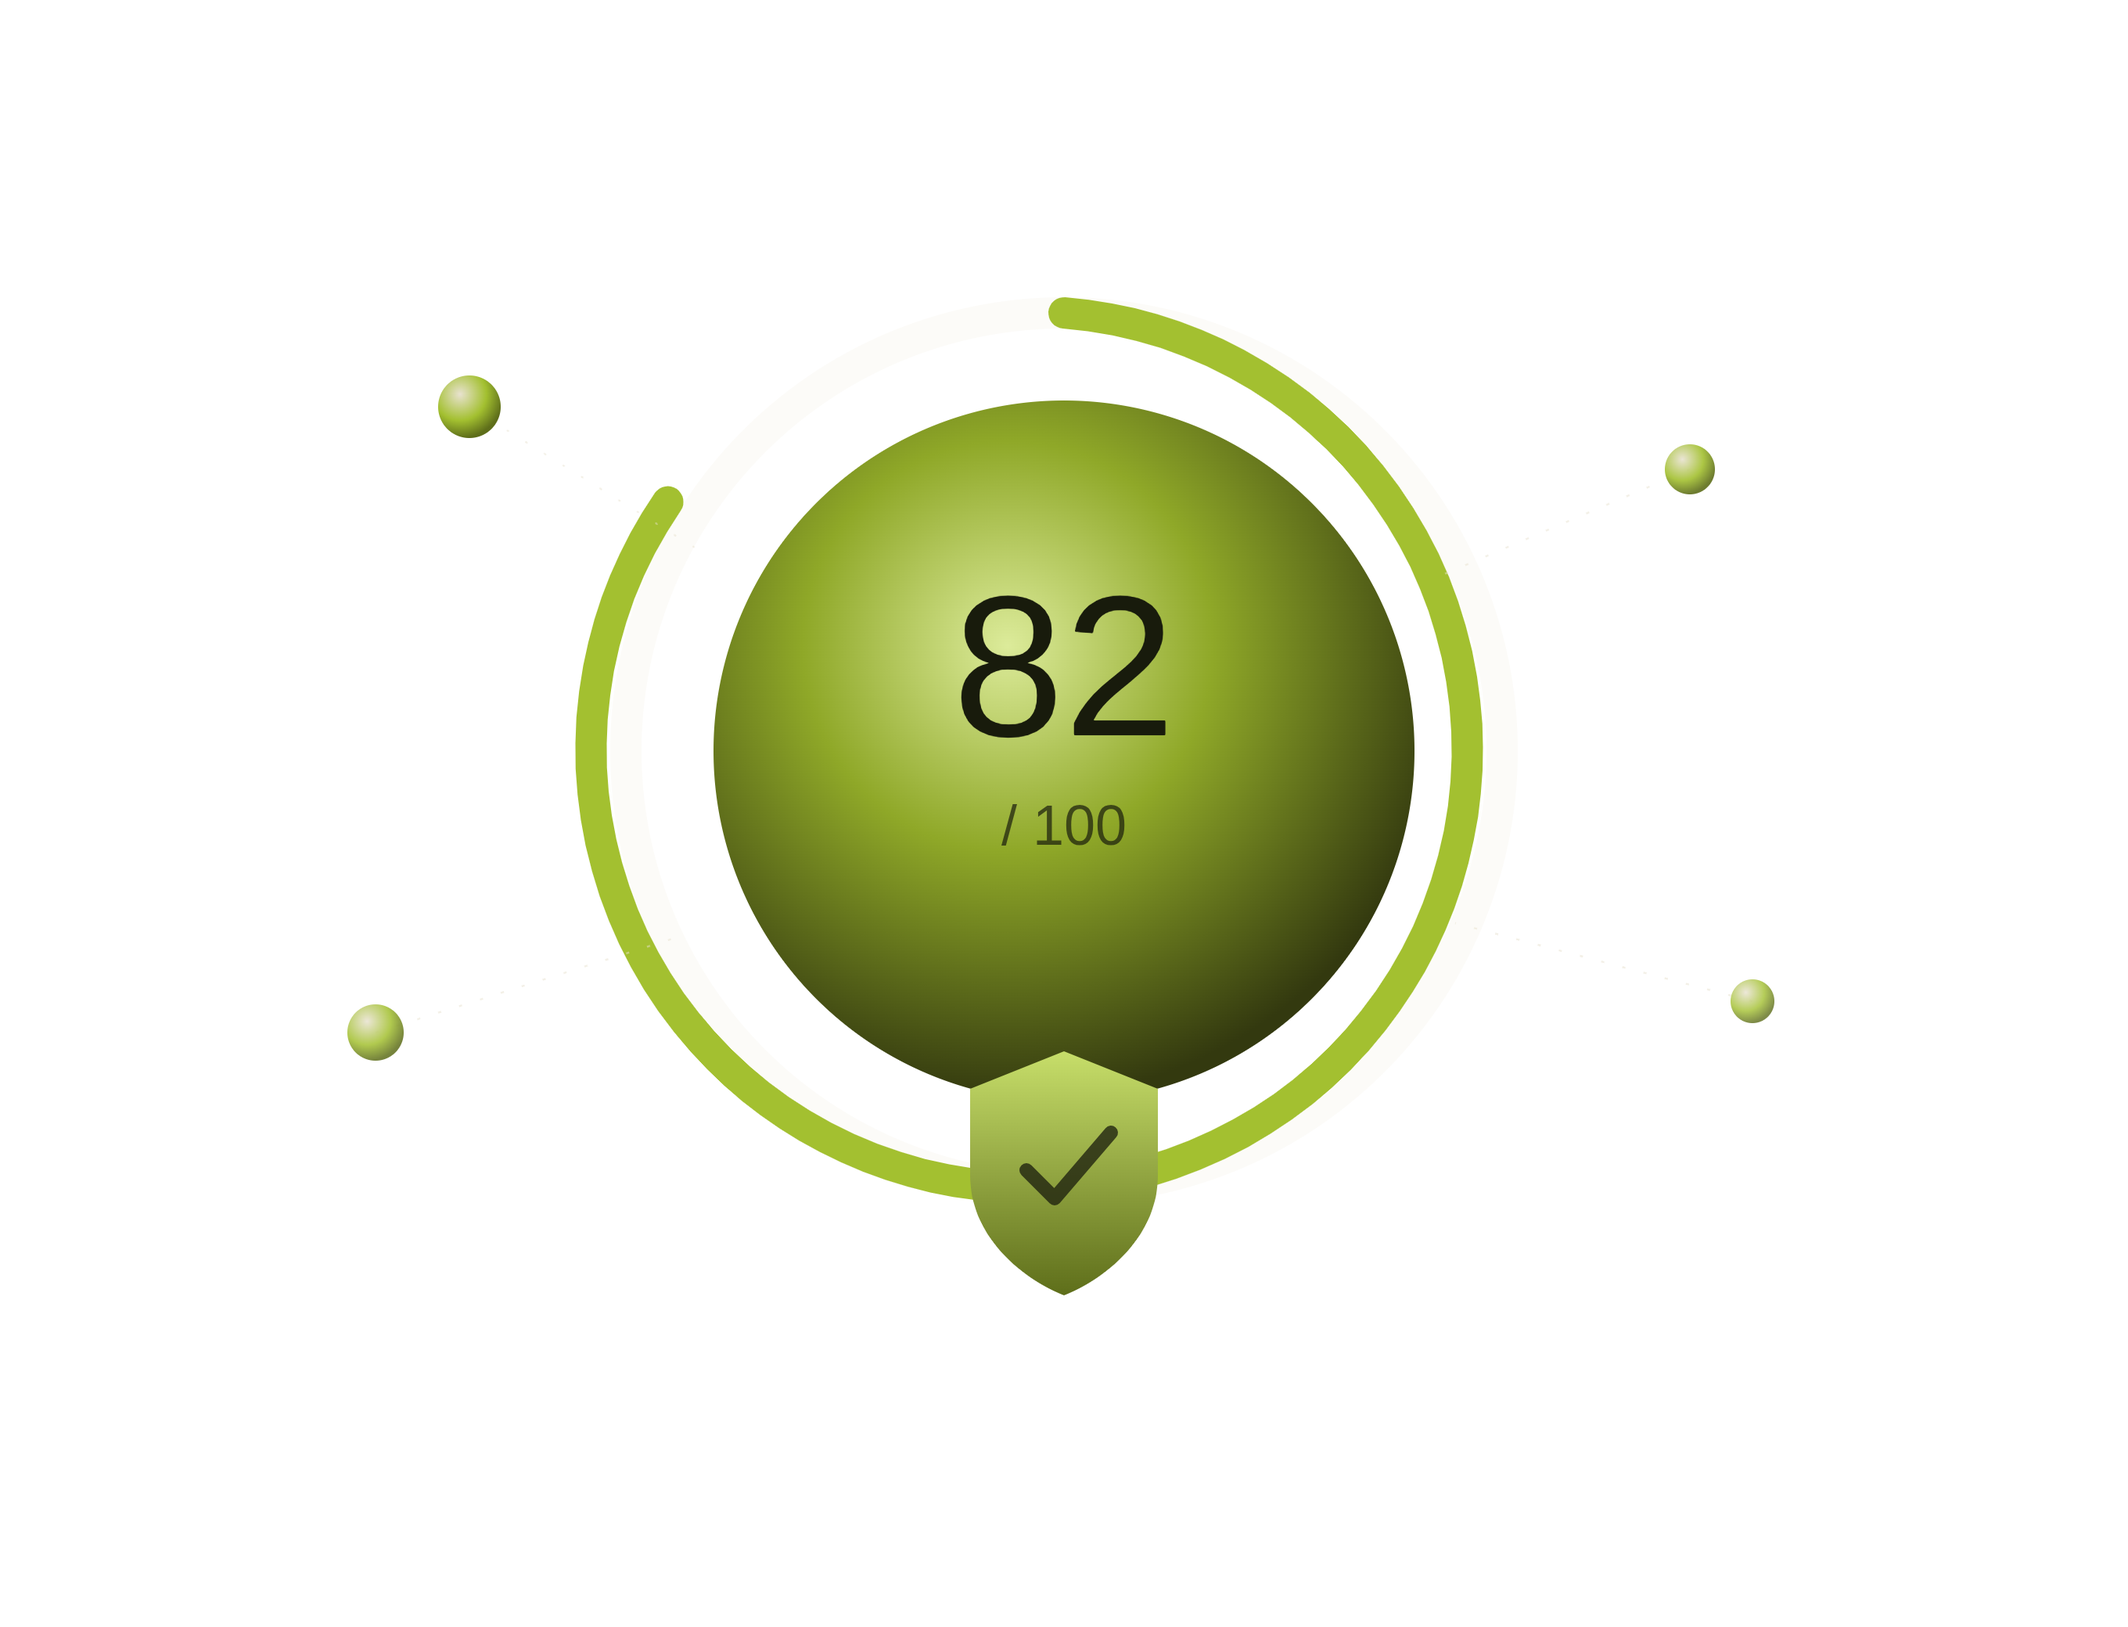
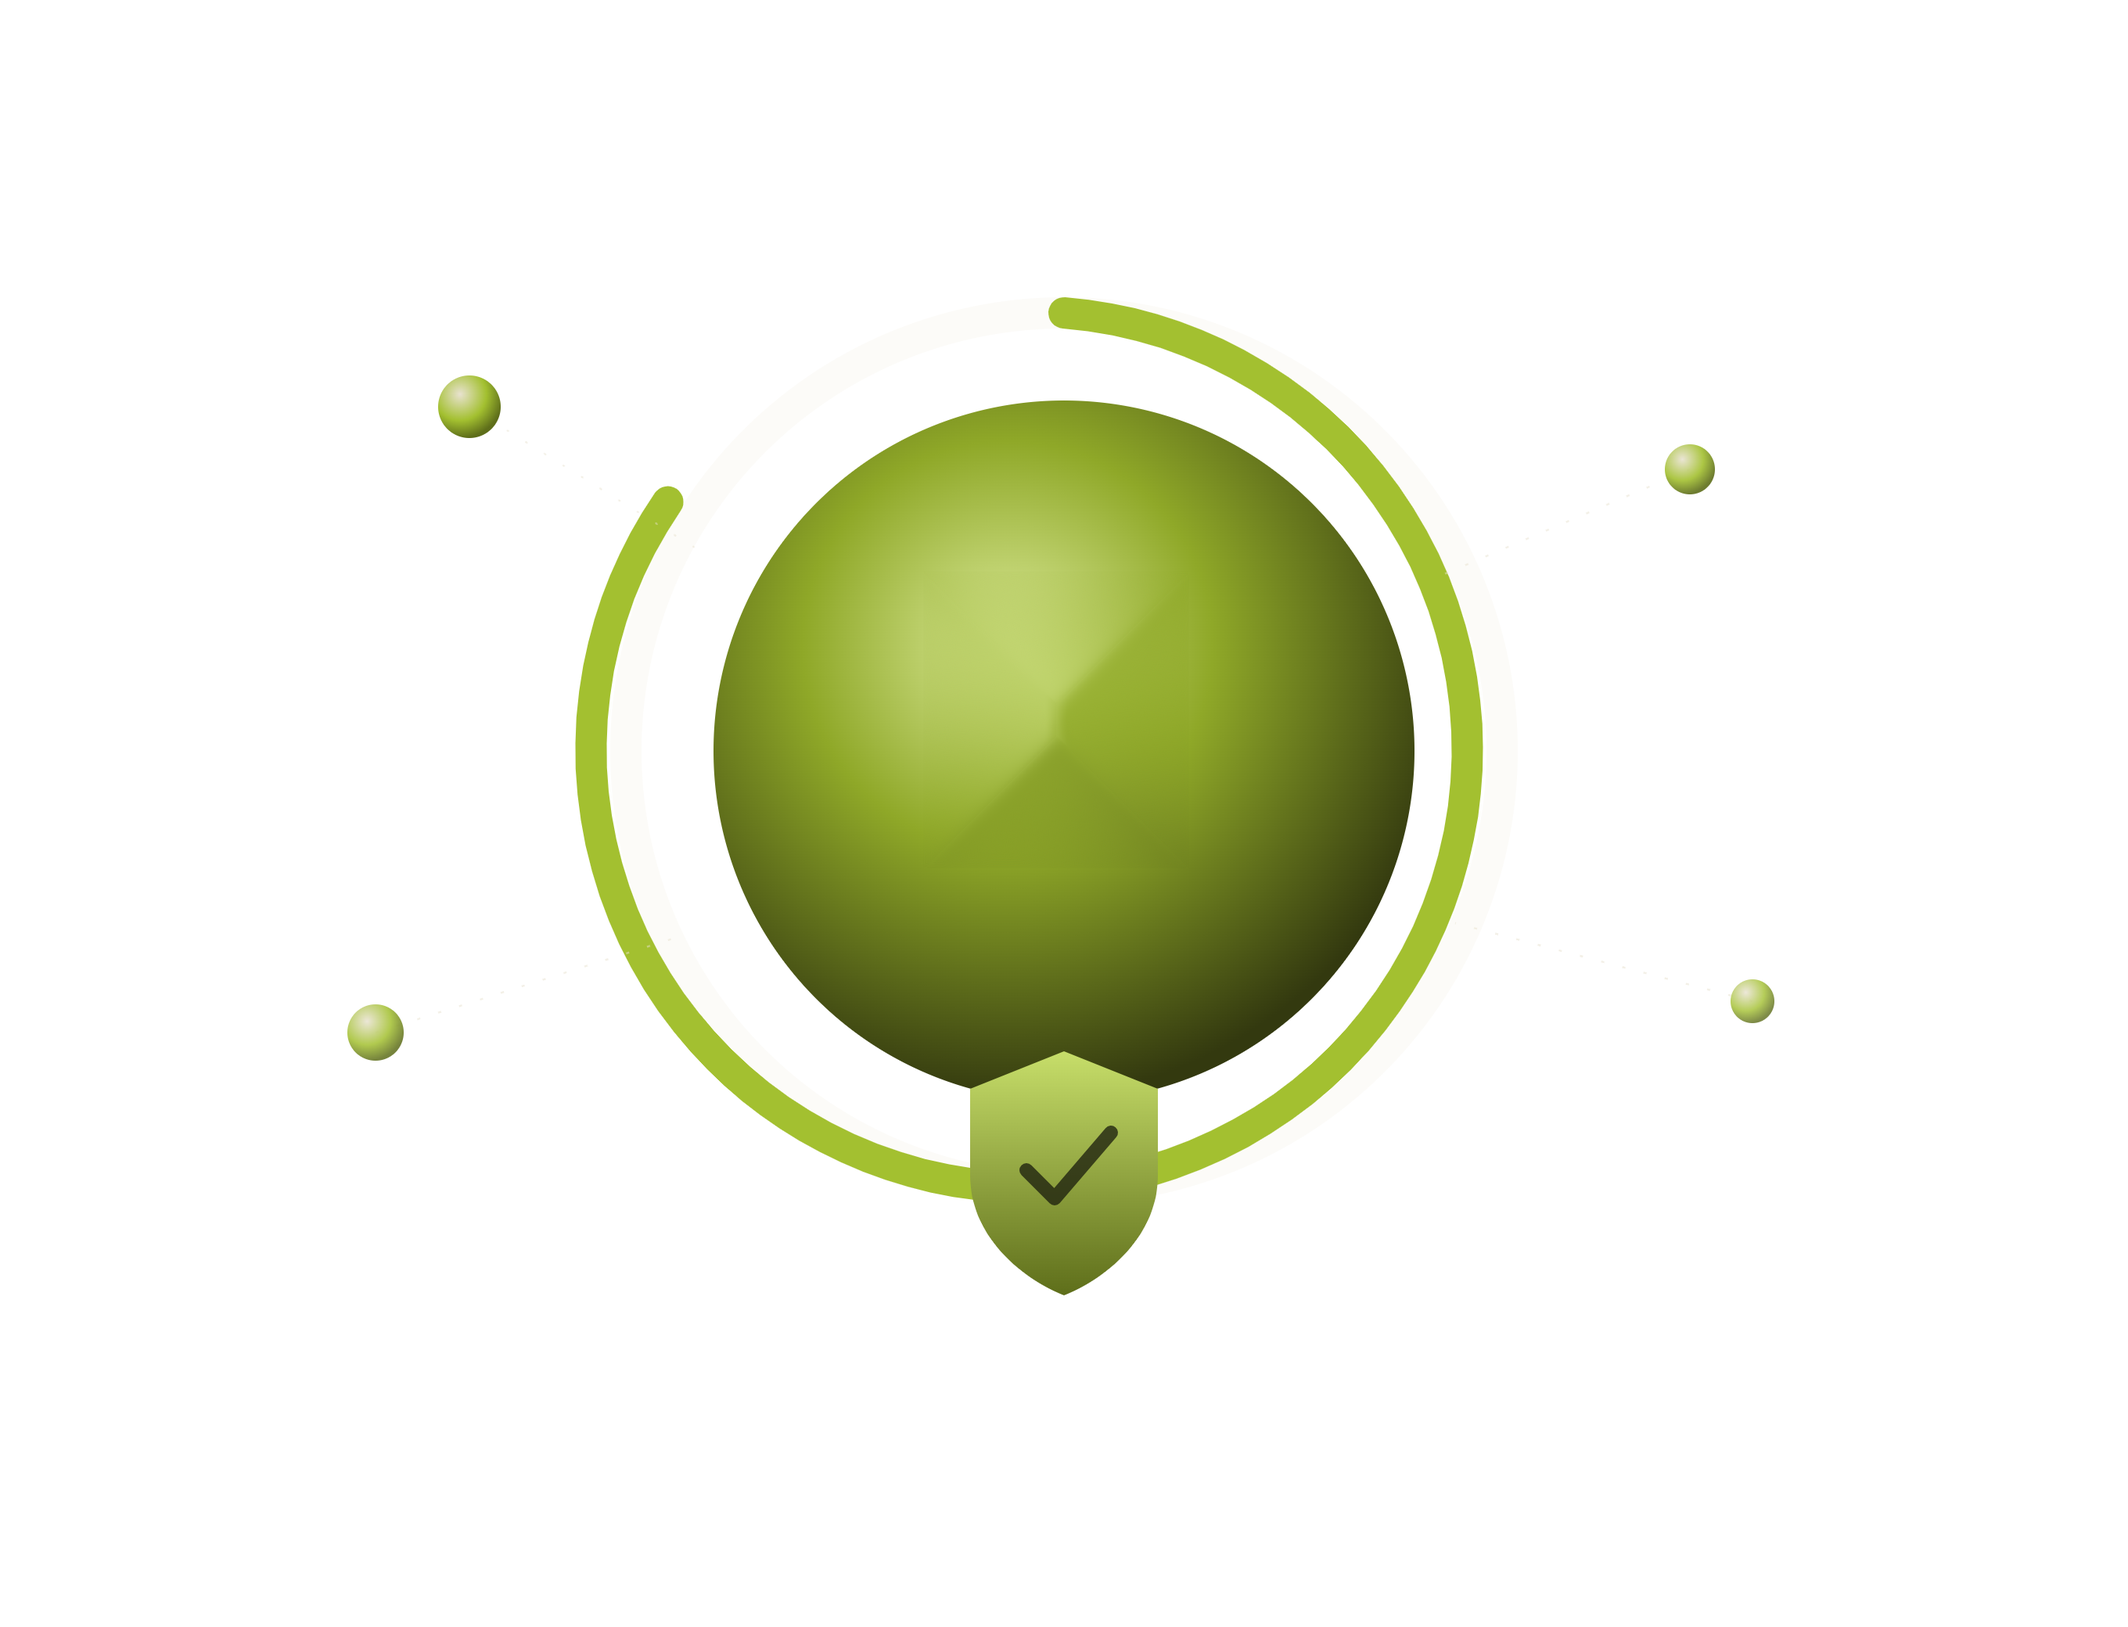
fix(dashboard): score orb, on-chain RPC, Recent Flow cap, feedback hang
BUG-01 (HIGH) — Score orb center number stuck at 0 after re-analysis
frontend/app/components/AnimatedScore.tsx
- Replace the framer-motion useSpring().set() counter with a self-contained
  requestAnimationFrame count-up that always converges on the exact target
  value, eliminating the race that left the center number stuck at 0 while
  the SVG ring already reflected the real score.

BUG-02 (CRITICAL) — Save on-chain DNS failure
backend/src/config/stellar.config.ts
- Fix Soroban RPC hosts: rpc.testnet.stellar.org -> soroban-testnet.stellar.org,
  rpc.mainnet.stellar.org -> soroban-mainnet.stellar.org. The old hosts don't
  resolve via DNS, so every on-chain save failed outright.
backend/src/services/contract.service.ts
- Add a 30s RPC timeout and translate timeout/429/5xx/DNS failures into
  clear, specific error messages instead of a raw stack trace.

BUG-03 (MEDIUM) — Recent Flow shows only ~14 transactions
frontend/app/dashboard/page.tsx
- Raise the Recent Flow sample from 14 to 100 transactions and add a
  "Showing X of Y tx" line so it can never silently contradict the
  full-history stats shown elsewhere on the dashboard.

BUG-04 (LOW) — Decorative orb PNG has hardcoded "82"
frontend/public/3d-imgs-assest/fluxid_trust_score_orb.png
- Inpaint the baked-in "82 / 100" text out of the decorative orb asset,
  keeping the ring/dots/shield intact. The orb no longer displays any
  number.

BUG-05 (LOW) — Network toggle keeps stale analysis visible
[…]

Changed region(s): [[0.4375, 0.3438, 0.5625, 0.5312]]

diff --git a/frontend/app/dashboard/context/AnalysisContext.tsx b/frontend/app/dashboard/context/AnalysisContext.tsx
@@ -20,11 +20,19 @@ import {
 interface AnalysisState {
   analyzedAddress: string | null;
   analysis: WalletAnalysis | null;
+  // Network this analysis (or in-flight request) belongs to. Compared against the
+  // currently selected network so a result never survives a network switch, no matter
+  // which UI control (e.g. the Header's own network toggle) triggered that switch.
+  resultNetwork: StellarNetwork | null;
   isAnalyzing: boolean;
   error: string | null;
 }
 
-interface AnalysisContextValue extends AnalysisState {
+interface AnalysisContextValue {
+  analyzedAddress: string | null;
+  analysis: WalletAnalysis | null;
+  isAnalyzing: boolean;
+  error: string | null;
   network: StellarNetwork;
   analyze: (address: string, network?: StellarNetwork) => Promise<boolean>;
   setNetwork: (network: StellarNetwork) => void;
@@ -39,22 +47,42 @@ export function AnalysisProvider({ children }: { children: ReactNode }) {
   const [state, setState] = useState<AnalysisState>({
     analyzedAddress: null,
     analysis: null,
+    resultNetwork: null,
     isAnalyzing: false,
     error: null,
   });
 
-  const analysis = state.isAnalyzing ? null : (state.analysis ?? stored?.analysis ?? null);
-  const analyzedAddress = state.analyzedAddress ?? stored?.address ?? null;
+  // In-memory and persisted results are only valid for the network they were computed
+  // on — otherwise they're a leftover from before the last network switch and must not
+  // be shown as if they were fresh, regardless of which control changed the network
+  // (the Header's own toggle writes straight to storage, bypassing this provider).
+  const sessionIsFresh = state.resultNetwork === network;
+  const storedForNetwork = stored?.network === network ? stored : null;
+
+  const analysis = state.isAnalyzing
+    ? null
+    : (sessionIsFresh ? state.analysis : null) ?? storedForNetwork?.analysis ?? null;
+  const analyzedAddress =
+    (sessionIsFresh || state.isAnalyzing ? state.analyzedAddress : null) ??
+    storedForNetwork?.address ??
+    null;
 
   const analyze = useCallback(async (address: string, networkOverride?: StellarNetwork) => {
     const selected = networkOverride ?? network;
-    setState((prev) => ({ ...prev, isAnalyzing: true, error: null, analysis: null, analyzedAddress: address }));
+    setState({
+      analyzedAddress: address,
+      analysis: null,
+      resultNetwork: selected,
+      isAnalyzing: true,
+      error: null,
+    });
     clearStoredResults();
     try {
       const result = await analyzeWallet(address, selected);
       setState({
         analyzedAddress: address,
         analysis: result,
+        resultNetwork: selected,
         isAnalyzing: false,
         error: null,
       });
@@ -75,6 +103,7 @@ export function AnalysisProvider({ children }: { children: ReactNode }) {
     setState({
       analyzedAddress: null,
       analysis: null,
+      resultNetwork: null,
       isAnalyzing: false,
       error: null,
     });
@@ -83,7 +112,16 @@ export function AnalysisProvider({ children }: { children: ReactNode }) {
 
   return (
     <AnalysisContext.Provider
-      value={{ ...state, analysis, analyzedAddress, network, analyze, setNetwork, clear }}
+      value={{
+        analysis,
+        analyzedAddress,
+        isAnalyzing: state.isAnalyzing,
+        error: state.error,
+        network,
+        analyze,
+        setNetwork,
+        clear,
+      }}
     >
       {children}
     </AnalysisContext.Provider>

diff --git a/backend/src/services/contract.service.ts b/backend/src/services/contract.service.ts
@@ -94,8 +94,33 @@ export class ContractService {
     return Boolean(this.contractId);
   }
 
+  private static readonly RPC_TIMEOUT_MS = 30_000;
+
   private getServer(): rpc.Server {
-    return new rpc.Server(this.rpcUrl, { allowHttp: this.rpcUrl.startsWith('http://') });
+    return new rpc.Server(this.rpcUrl, {
+      allowHttp: this.rpcUrl.startsWith('http://'),
+      timeout: ContractService.RPC_TIMEOUT_MS,
+    });
+  }
+
+  private describeRpcError(error: unknown): string {
+    const err = error as { code?: string; message?: string; response?: { status?: number } };
+    const status = err.response?.status;
+    const message = err.message ?? String(error);
+
+    if (err.code === 'ECONNABORTED' || /timeout/i.test(message)) {
+      return `RPC request to ${this.rpcUrl} timed out`;
+    }
+    if (status === 429) {
+      return `RPC provider ${this.rpcUrl} rate-limited the request (429)`;
+    }
+    if (status && status >= 500) {
+      return `RPC provider ${this.rpcUrl} returned a server error (${status})`;
+    }
+    if (err.code === 'ENOTFOUND' || err.code === 'EAI_AGAIN') {
+      return `RPC host ${this.rpcUrl} could not be resolved (DNS failure)`;
+    }
+    return message;
   }
 
   private async getSimulationSource(server: rpc.Server, fallbackPublicKey?: string) {
@@ -291,7 +316,7 @@ export class ContractService {
     const hashScVal = xdr.ScVal.scvBytes(hashBuffer);
 
     try {
-      const server = new rpc.Server(this.rpcUrl, { allowHttp: this.rpcUrl.startsWith('http://') });
+      const server = this.getServer();
       const admin = Keypair.fromSecret(this.adminSecret as string);
       const contract = new Contract(this.contractId as string);
 
@@ -343,9 +368,9 @@ export class ContractService {
       logger.warn({ wallet, status, txHash: sendResult.hash }, 'Contract sync did not confirm');
       return { success: false, txHash: sendResult.hash, error: `Final status: ${status}` };
     } catch (error) {
-      const err = error as Error;
-      logger.error({ error: err.message, wallet }, 'Contract sync threw');
-      return { success: false, error: err.message };
+      const message = this.describeRpcError(error);
+      logger.error({ error: message, wallet }, 'Contract sync threw');
+      return { success: false, error: message };
     }
   }
 }

diff --git a/frontend/app/components/AnimatedScore.tsx b/frontend/app/components/AnimatedScore.tsx
@@ -1,7 +1,6 @@
 "use client";
 
-import { useEffect, useState, CSSProperties } from "react";
-import { motion, useSpring } from "framer-motion";
+import { useEffect, useRef, useState, CSSProperties } from "react";
 
 interface AnimatedScoreProps {
   value: number;
@@ -9,21 +8,58 @@ interface AnimatedScoreProps {
   style?: CSSProperties;
 }
 
+const DURATION_MS = 800;
+
+function easeOutCubic(t: number): number {
+  return 1 - Math.pow(1 - t, 3);
+}
+
 export default function AnimatedScore({ value, className = "", style }: AnimatedScoreProps) {
   const [displayValue, setDisplayValue] = useState(0);
-  const spring = useSpring(0, { stiffness: 50, damping: 15 });
+  const displayValueRef = useRef(displayValue);
+  displayValueRef.current = displayValue;
+  const frameRef = useRef<number | null>(null);
 
   useEffect(() => {
-    const unsubscribe = spring.on("change", (v) => {
-      setDisplayValue(Math.round(v));
-    });
-    spring.set(value);
-    return unsubscribe;
-  }, [value, spring]);
+    const from = displayValueRef.current;
+    const to = value;
+
+    if (frameRef.current !== null) {
+      cancelAnimationFrame(frameRef.current);
+      frameRef.current = null;
+    }
+
+    if (from === to) {
+      return;
+    }
+
+    const start = performance.now();
+
+    const tick = (now: number) => {
+      const progress = Math.min((now - start) / DURATION_MS, 1);
+      const current = Math.round(from + (to - from) * easeOutCubic(progress));
+      setDisplayValue(current);
+
+      if (progress < 1) {
+        frameRef.current = requestAnimationFrame(tick);
+      } else {
+        frameRef.current = null;
+      }
+    };
+
+    frameRef.current = requestAnimationFrame(tick);
+
+    return () => {
+      if (frameRef.current !== null) {
+        cancelAnimationFrame(frameRef.current);
+        frameRef.current = null;
+      }
+    };
+  }, [value]);
 
   return (
-    <motion.span className={className} style={style}>
+    <span className={className} style={style}>
       {displayValue}
-    </motion.span>
+    </span>
   );
 }

diff --git a/frontend/app/dashboard/page.tsx b/frontend/app/dashboard/page.tsx
@@ -109,11 +109,16 @@ function DashboardSummary({
   // Top risk factors — lowest sub-scores (weakest signals, headline problems).
   const riskFactors = [...factors].sort((a, b) => a.value - b.value).slice(0, 2);
 
-  // Compact flow: summarize the 14 most recent transactions into a single stacked bar per direction.
-  const recent = analysis.transactions.slice(0, 14);
+  // Compact flow: summarize the most recent transactions (up to RECENT_FLOW_LIMIT) into a
+  // single stacked bar per direction. The card always states how many of the wallet's total
+  // transactions this sample covers, so it can never silently contradict the full-history stats
+  // shown elsewhere on the dashboard (Score Breakdown, Analytics).
+  const RECENT_FLOW_LIMIT = 100;
+  const recent = analysis.transactions.slice(0, RECENT_FLOW_LIMIT);
   const recentIn = recent.filter((t) => t.type === "inflow").length;
   const recentOut = recent.filter((t) => t.type === "outflow").length;
   const recentTotal = Math.max(recentIn + recentOut, 1);
+  const totalTxCount = analysis.transactions.length;
 
   return (
     <motion.div initial="hidden" animate="show" className="grid grid-cols-1 md:grid-cols-3 gap-4 sm:gap-6">
@@ -209,12 +214,15 @@ function DashboardSummary({
             />
           </div>
           <p style={{ color: "var(--foreground-dim)", fontSize: 11 }} className="pt-2">
-            Last {recent.length} tx ·{" "}
+            {recent.length < totalTxCount
+              ? `Showing ${recent.length} of ${totalTxCount} tx`
+              : `${recent.length} tx`}{" "}
+            ·{" "}
             <Link
-              href="/dashboard/analytics"
+              href="/dashboard/transactions"
               className="text-[var(--primary)] hover:underline font-bold"
             >
-              see Analytics for full charts
+              see all transactions
             </Link>
           </p>
 

diff --git a/frontend/lib/metricsApi.ts b/frontend/lib/metricsApi.ts
@@ -60,6 +60,8 @@ export async function logEvent(
   }
 }
 
+const FEEDBACK_TIMEOUT_MS = 10_000;
+
 export async function submitFeedback(
   rating: number,
   message: string,
@@ -67,16 +69,23 @@ export async function submitFeedback(
 ): Promise<boolean> {
   const base = baseUrl();
   if (!base) return false;
+  const controller = new AbortController();
+  const timeoutId = setTimeout(() => controller.abort(), FEEDBACK_TIMEOUT_MS);
   try {
     const res = await fetch(`${base}feedback`, {
       method: "POST",
       headers: { "Content-Type": "application/json" },
       body: JSON.stringify({ rating, message, wallet: wallet ?? null }),
+      signal: controller.signal,
     });
     const body = (await res.json()) as { success?: boolean };
     return body.success === true;
   } catch {
+    // Covers network errors and the 10s timeout abort alike — the caller
+    // treats both as "failed to send" and lets the user retry.
     return false;
+  } finally {
+    clearTimeout(timeoutId);
   }
 }
 

diff --git a/backend/src/config/stellar.config.ts b/backend/src/config/stellar.config.ts
@@ -12,13 +12,13 @@ export interface StellarConfig {
 export const STELLAR_CONFIGS: Record<NetworkType, StellarConfig> = {
   mainnet: {
     horizonUrl: 'https://horizon.stellar.org',
-    rpcUrl: 'https://rpc.mainnet.stellar.org',
+    rpcUrl: 'https://soroban-mainnet.stellar.org',
     networkPassphrase: Networks.PUBLIC,
     contractId: process.env.MAINNET_CONTRACT_ID,
   },
   testnet: {
     horizonUrl: 'https://horizon-testnet.stellar.org',
-    rpcUrl: 'https://rpc.testnet.stellar.org',
+    rpcUrl: 'https://soroban-testnet.stellar.org',
     networkPassphrase: Networks.TESTNET,
     contractId: process.env.TESTNET_CONTRACT_ID,
   },

diff --git a/frontend/app/components/Feedback.tsx b/frontend/app/components/Feedback.tsx
@@ -56,7 +56,7 @@ export default function Feedback() {
       reset();
       setOpen(false);
     } else {
-      showToast("Could not send feedback. Please try again.", "error");
+      showToast("Failed to send — try again", "error");
     }
   };
 
